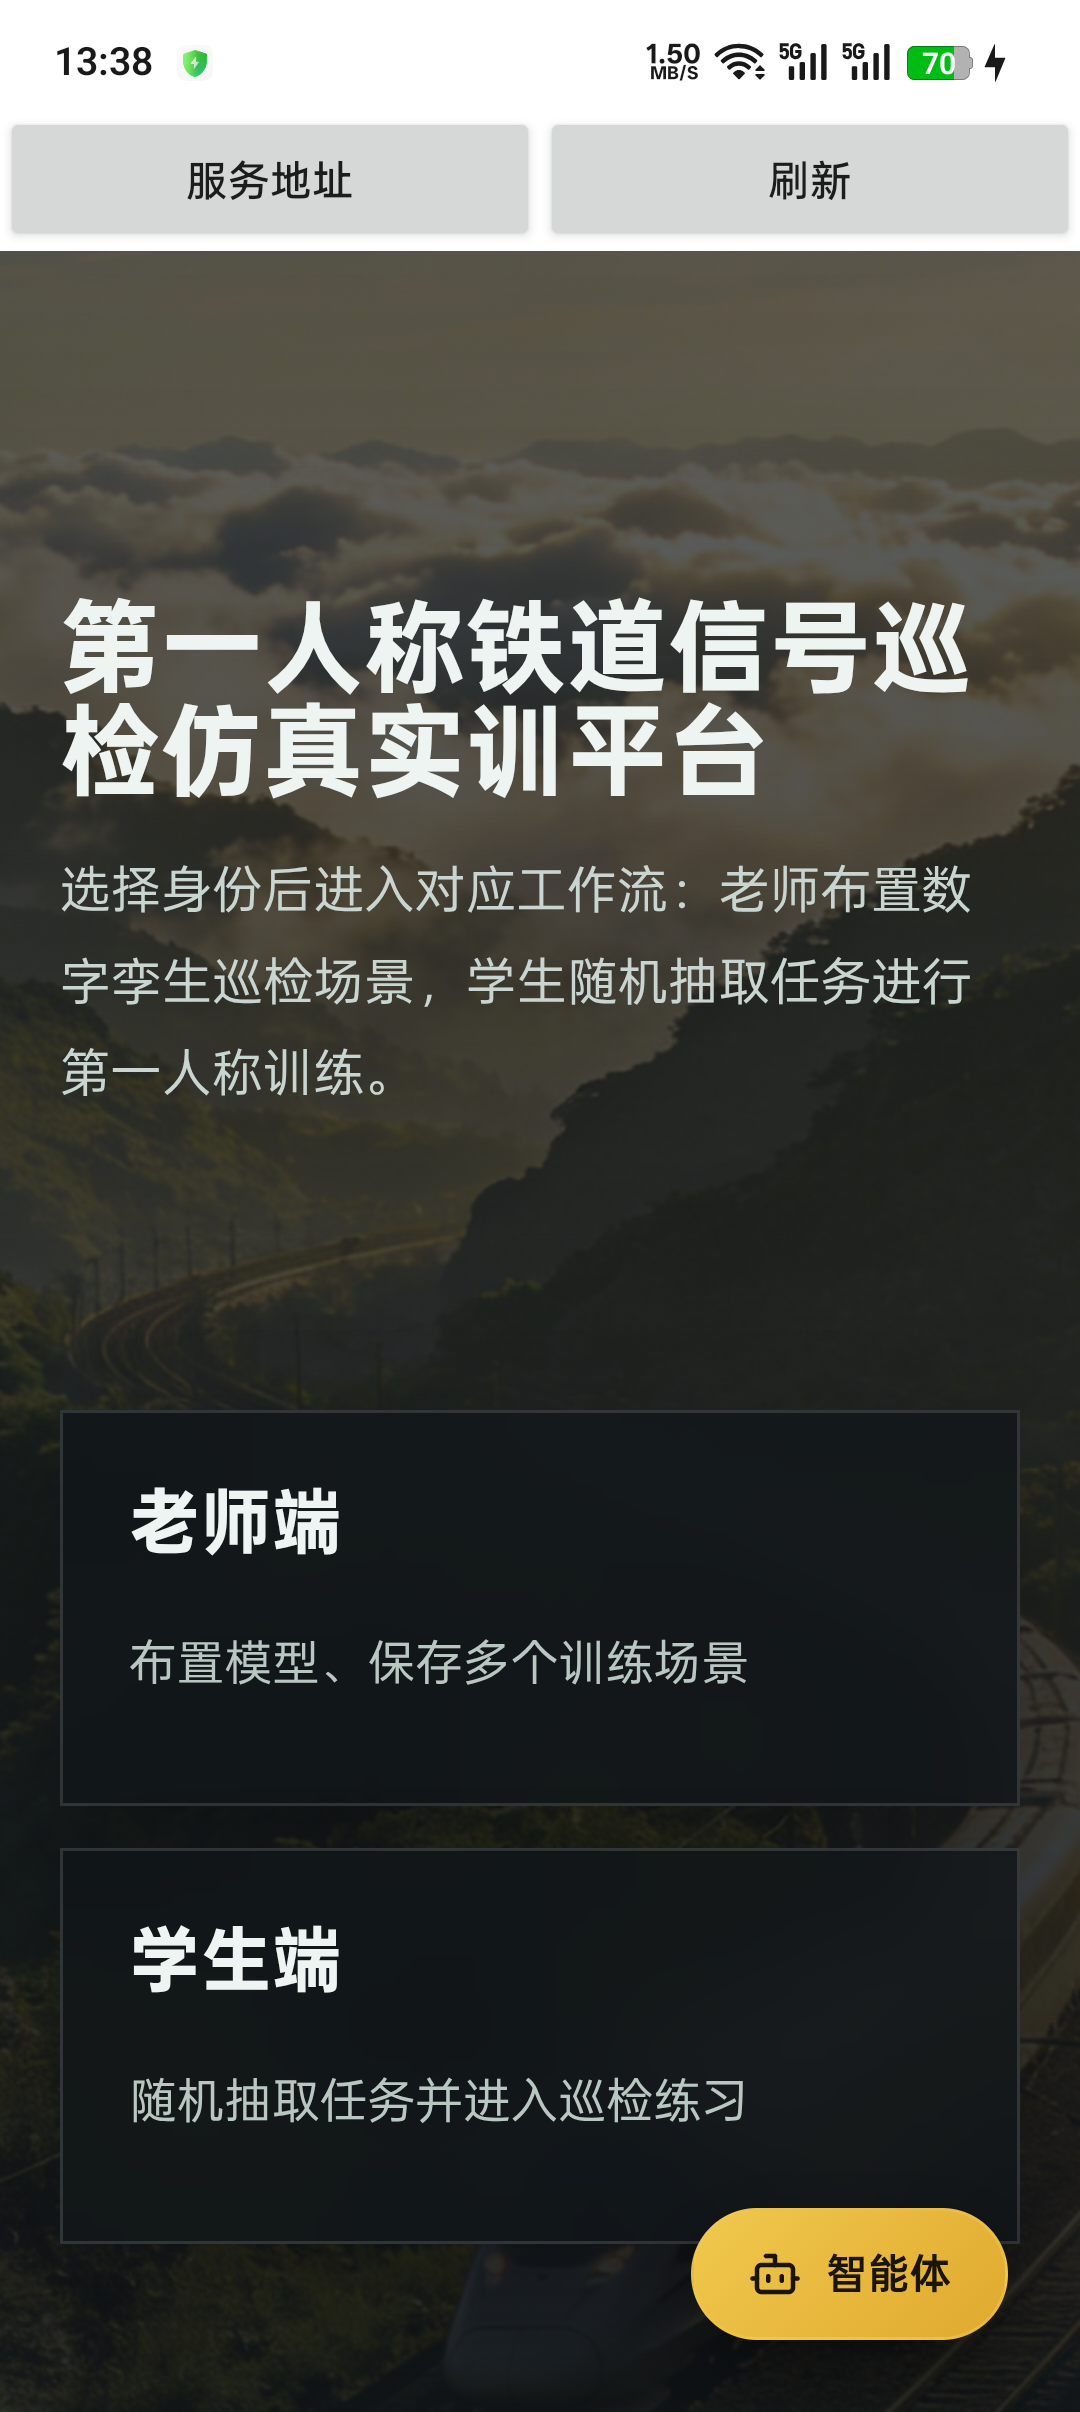
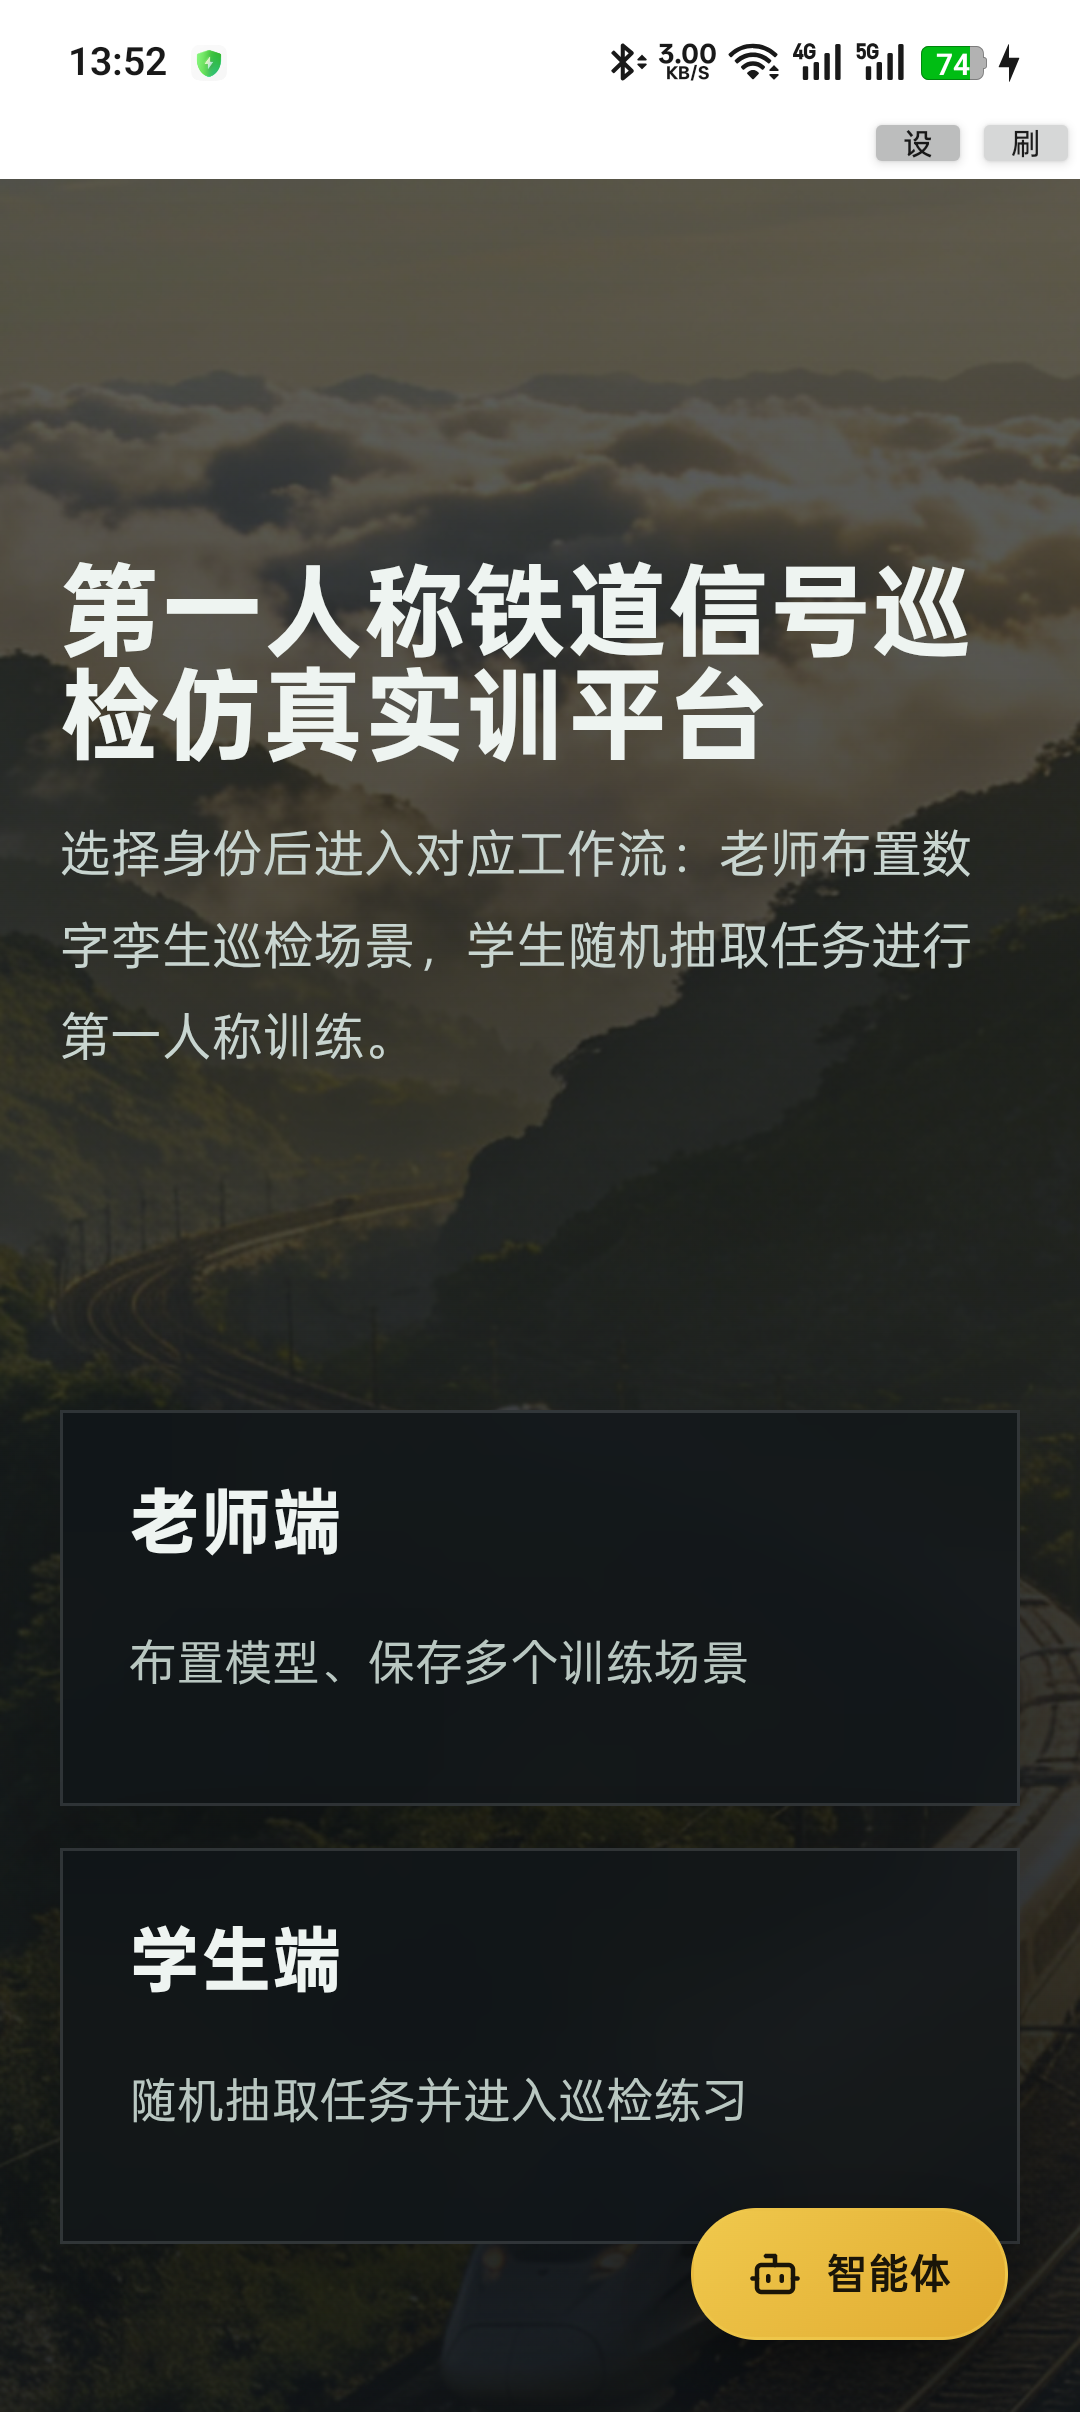
fix: compact Android service toolbar

diff --git a/android/app/src/main/java/com/xuelinhu/lanwebclient/MainActivity.java b/android/app/src/main/java/com/xuelinhu/lanwebclient/MainActivity.java
@@ -10,6 +10,7 @@ import android.os.Bundle;
 import android.view.View;
 import android.view.ViewGroup;
 import android.view.WindowInsets;
+import android.view.Gravity;
 import android.widget.Button;
 import android.webkit.PermissionRequest;
 import android.webkit.WebChromeClient;
@@ -60,16 +61,23 @@ public final class MainActivity extends Activity {
         });
         LinearLayout toolbar = new LinearLayout(this);
         toolbar.setOrientation(LinearLayout.HORIZONTAL);
+        toolbar.setGravity(Gravity.END | Gravity.CENTER_VERTICAL);
         Button serverButton = new Button(this);
-        serverButton.setText("服务地址");
+        serverButton.setText("设");
         serverButton.setOnClickListener(view -> showServerDialog());
         Button refreshButton = new Button(this);
-        refreshButton.setText("刷新");
+        refreshButton.setText("刷");
         refreshButton.setOnClickListener(view -> webView.reload());
-        toolbar.addView(serverButton, new LinearLayout.LayoutParams(0, dp(48), 1));
-        toolbar.addView(refreshButton, new LinearLayout.LayoutParams(0, dp(48), 1));
+        for (Button button : new Button[]{serverButton, refreshButton}) {
+            button.setTextSize(10);
+            button.setMinHeight(0);
+            button.setMinWidth(0);
+            button.setPadding(0, 0, 0, 0);
+        }
+        toolbar.addView(serverButton, new LinearLayout.LayoutParams(dp(36), dp(24)));
+        toolbar.addView(refreshButton, new LinearLayout.LayoutParams(dp(36), dp(24)));
         root.addView(toolbar, new LinearLayout.LayoutParams(
-                ViewGroup.LayoutParams.MATCH_PARENT, dp(48)));
+                ViewGroup.LayoutParams.MATCH_PARENT, dp(24)));
         webView = new WebView(this);
         progressBar = new ProgressBar(this, null, android.R.attr.progressBarStyleHorizontal);
         progressBar.setMax(100);
